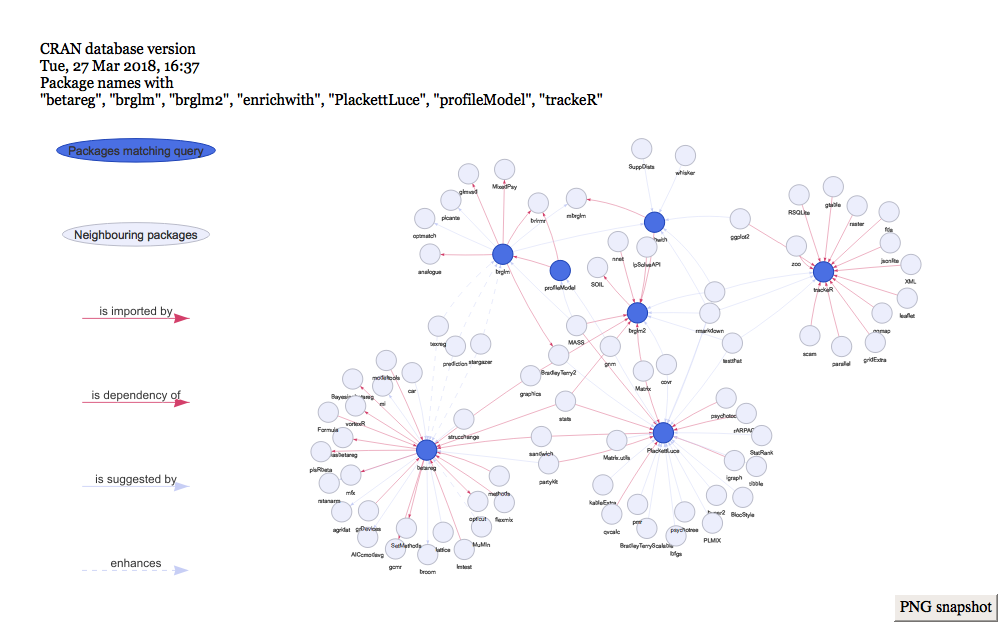
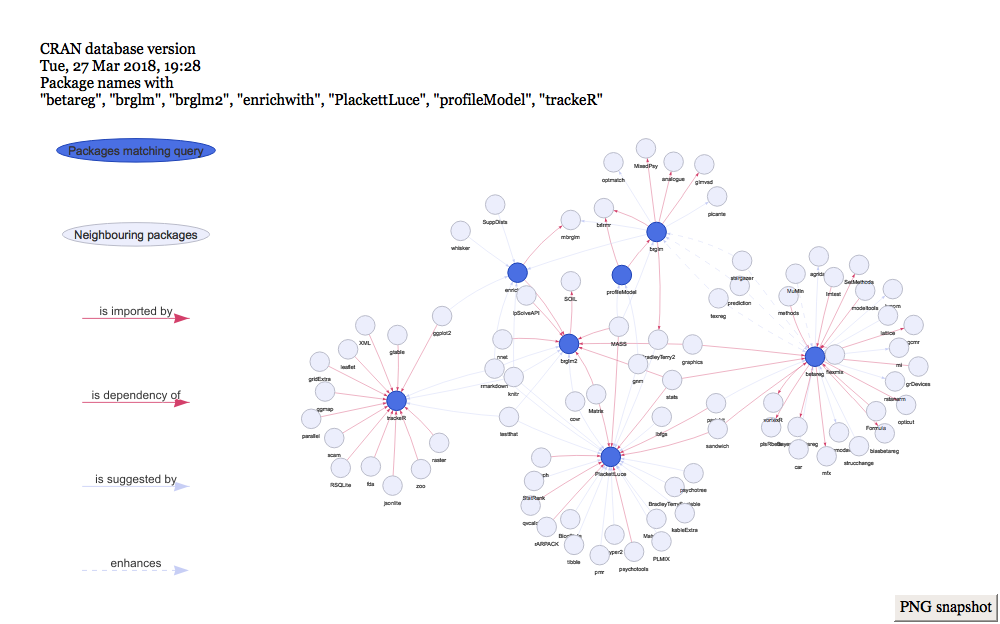
Readme updates

diff --git a/README.md b/README.md
@@ -49,7 +49,7 @@ The CRAN database we use is from
 
 ``` r
 attr(package_db, "timestamp")
-#> [1] "2018-03-27 16:37:35 BST"
+#> [1] "2018-03-27 19:28:54 BST"
 ```
 
 #### Package directives networks
@@ -74,7 +74,7 @@ and their sub-network of directives can be summarized in an interactive
 visualization, a shapshot of which is below
 
 ``` r
-visualize(package_network, package = my_packages, title = TRUE, legend = TRUE)
+plot(package_network, package = my_packages, title = TRUE, legend = TRUE)
 ```
 
 ![](README_files/README-unnamed-chunk-6-1.png)
@@ -108,7 +108,7 @@ directives network. For example, my collaboration network results can be
 summarized as an interactive visualization, a shapshot of which is below
 
 ``` r
-visualize(author_network, author = "Ioannis Kosmidis")
+plot(author_network, author = "Ioannis Kosmidis")
 ```
 
 ![](README_files/README-unnamed-chunk-9-1.png)
